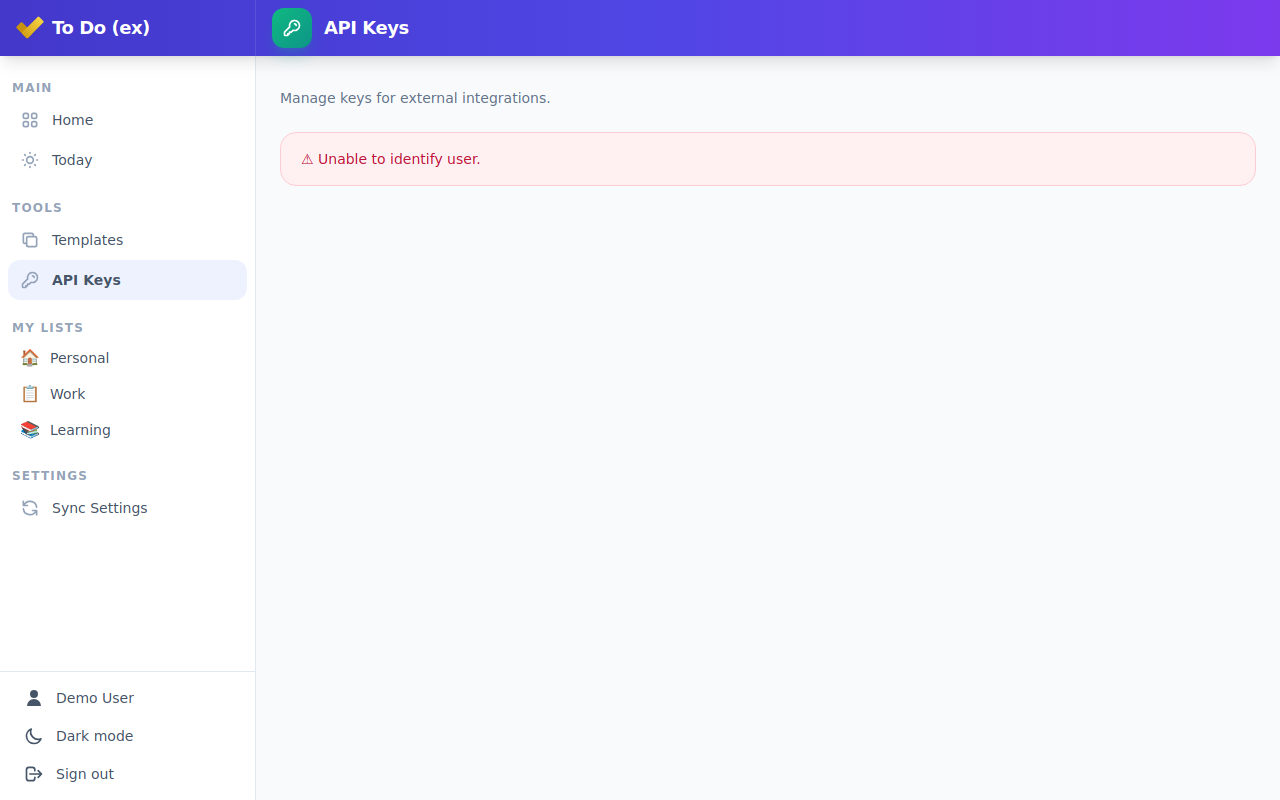
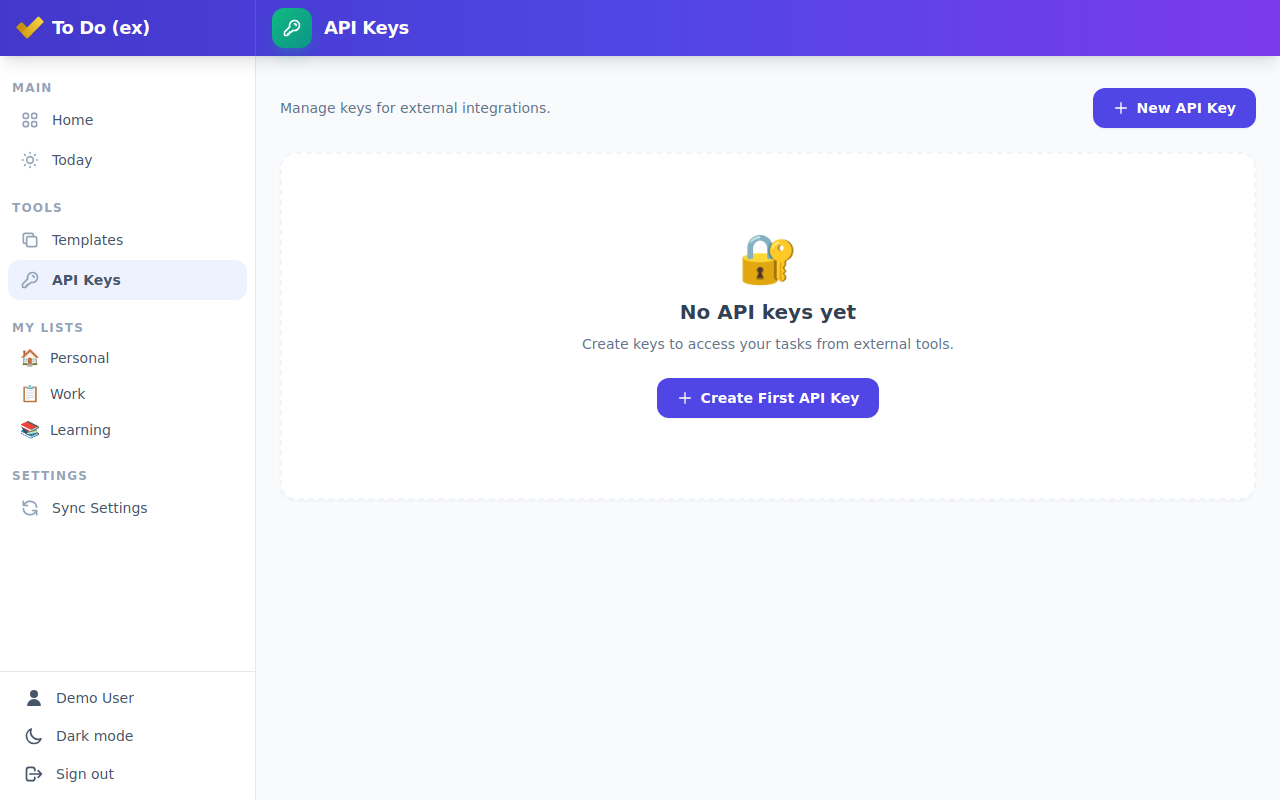
Resolve conflicts: sync code changes from main, regenerate screenshots

diff --git a/src/TodoExtended.Web/Services/PersistentStateModels.cs b/src/TodoExtended.Web/Services/PersistentStateModels.cs
@@ -1,0 +1,64 @@
+using System.Globalization;
+using System.Text;
+
+namespace TodoExtended.Web.Services;
+
+public record PersistedTodoTask(
+    string Id,
+    string Title,
+    bool IsCompleted,
+    DateOnly? DueDate,
+    string? Importance);
+
+public record PersistedTodoTaskWithList(
+    string Id,
+    string Title,
+    bool IsCompleted,
+    string? Importance,
+    string ListId,
+    string ListName);
+
+public record PersistedTodoTaskList(string Id, string DisplayName)
+{
+    public (string? Emoji, string Name) Emoji()
+    {
+        if (string.IsNullOrEmpty(DisplayName))
+            return (null, DisplayName ?? string.Empty);
+
+        var enumerator = StringInfo.GetTextElementEnumerator(DisplayName);
+        if (!enumerator.MoveNext())
+            return (null, DisplayName ?? string.Empty);
+
+        var firstElement = (string)enumerator.Current;
+        var firstRune = firstElement.EnumerateRunes().First();
+
+        if (IsEmojiLike(firstRune))
+        {
+            var rest = DisplayName[firstElement.Length..].TrimStart();
+            return (firstElement, rest);
+        }
+
+        return (null, DisplayName ?? string.Empty);
+    }
+
+    private static bool IsEmojiLike(Rune rune)
+    {
+        int v = rune.Value;
+        return v >= 0x1F000 ||                    // SMP emoji blocks (emoticons, symbols, flags, etc.)
+               (v >= 0x2600 && v <= 0x27BF) ||    // Misc Symbols & Dingbats
+               (v >= 0x2300 && v <= 0x23FF) ||    // Misc Technical (⌚, ⏰, etc.)
+               (v >= 0x2B50 && v <= 0x2B55) ||    // Stars, circles
+               (v >= 0x25A0 && v <= 0x25FF) ||    // Geometric shapes
+               (v >= 0x2702 && v <= 0x27B0) ||    // Dingbats
+               (v >= 0x2934 && v <= 0x2935);      // Arrows
+    }
+}
+
+public record PersistedTaskTemplate(
+    Guid Id,
+    string Title,
+    string TaskListId,
+    string TaskListName,
+    bool DueDateToday,
+    TimeOnly? ReminderTime,
+    int SortOrder);

diff --git a/src/TodoExtended.Web/Program.cs b/src/TodoExtended.Web/Program.cs
@@ -155,6 +155,23 @@ using (var scope = app.Services.CreateScope())
 
     // Enable WAL mode for concurrent read/write during parallel sync
     db.Database.ExecuteSqlRaw("PRAGMA journal_mode=WAL;");
+
+    // Seed demo user so the API keys page (and its FK constraint) works in demo mode
+    if (isDemoMode)
+    {
+        if (!db.Users.Any(u => u.Id == "demo-user"))
+        {
+            db.Users.Add(new TodoExtended.Web.Data.User
+            {
+                Id = "demo-user",
+                Email = "demo@example.com",
+                DisplayName = "Demo User",
+                CreatedUtc = DateTime.UtcNow,
+                LastSeenUtc = DateTime.UtcNow
+            });
+            db.SaveChanges();
+        }
+    }
 }
 
 // Configure the HTTP request pipeline.
@@ -185,6 +202,7 @@ if (isDemoMode)
         var claims = new[]
         {
             new System.Security.Claims.Claim(System.Security.Claims.ClaimTypes.NameIdentifier, "demo-user"),
+            new System.Security.Claims.Claim("http://schemas.microsoft.com/identity/claims/objectidentifier", "demo-user"),
             new System.Security.Claims.Claim(System.Security.Claims.ClaimTypes.Name, "Demo User"),
             new System.Security.Claims.Claim(System.Security.Claims.ClaimTypes.Email, "demo@example.com"),
             new System.Security.Claims.Claim("demo", "true"),
